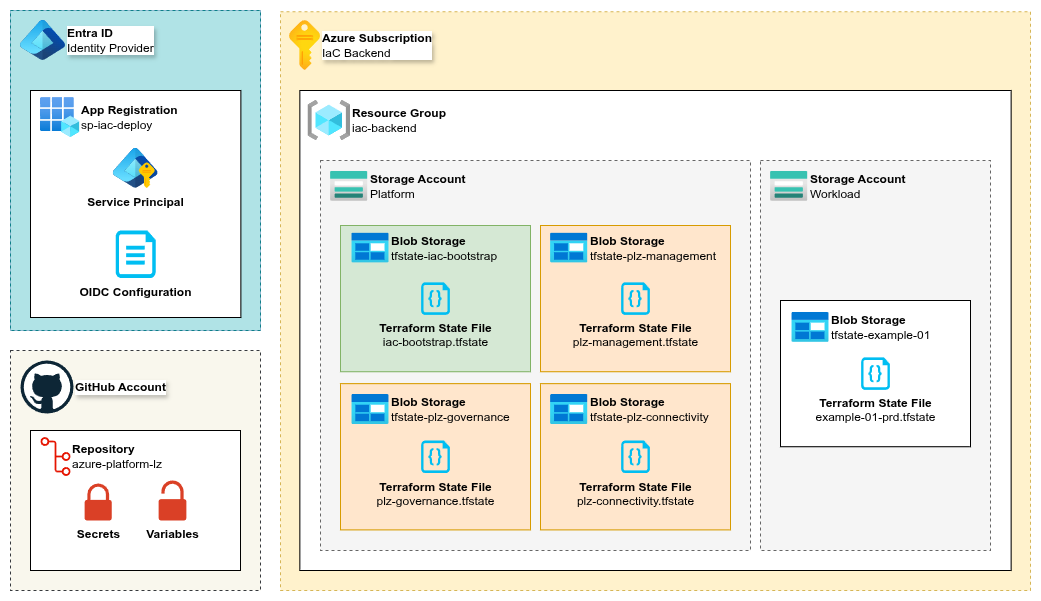
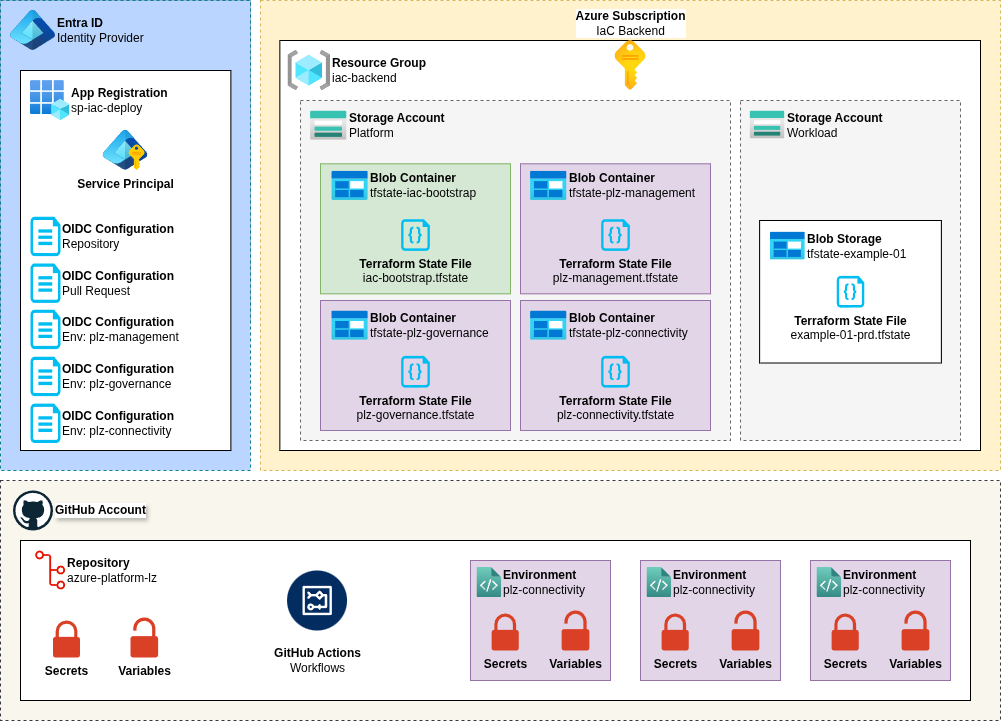
docs: Update documentation and design diagram.

diff --git a/deployments/bootstrap/README.md b/deployments/bootstrap/README.md
@@ -2,17 +2,18 @@
 
 Automates the **initial bootstrapping** process of both Azure and GitHub, in preparation for executing platform landing zone deployment workflows.
 
-- Locally executed Powershell script performs the initial setup process, configuring Azure and GitHub for automation.
+- **Locally executed Powershell script:**
+  - Performs the initial setup process, configuring Azure and GitHub for automation.
   - Performs pre-flight checks, validates authentication and confirms intentions.
-- Executes pre-defined Terraform module to deploy base resources.
-- Creates Entra ID Service Principal:
-  - Secured with Federated Credentials (OIDC) for GitHub repository and environments.
-  - Custom RBAC role assigned at core management group level.
-- Deploys backend resources **per stack** into a dedicated IaC subscription:
-  - Global Resource Group with dedicated Storage Accounts per category (platform, workloads).
+  - Executes pre-defined Terraform module to deploy base resources.
+  - Adds stack variables and secrets into the provided GitHub repository and environments.
+  - Automates the post-deployment migration process of local state file to Azure blob storage providing remote state.
+- **Service Principal + OIDC:**
+  - Providing a secure authentication method for workflows within GitHub repository.
+  - Custom RBAC role assigned providing required permissions for resource management.
+- **Backend Resources --> Dedicated IaC Subscription:**
+  - Resource Group and Storage Accounts per category (platform, workloads).
   - Maintaining isolation and independence, using separate state files per stack (governance, connectivity, management).
-- Adds stack variables and secrets into the provided GitHub repository.
-- Automates the post-deployment migration process of local state file to Azure blob storage providing remote state.
 
 ---
 
@@ -47,21 +48,38 @@ This design is intended to be used with a **dedicated IaC subscription**, contai
 
 ### Example Usage
 
-Subscription IDs are resolved via a data call using the value provided in `platform_subscription_identifiers` variable.
+Subscription IDs are resolved via a data call using the value provided in the `subscription_identifier` field.
 Using the same value will result in the **same subscription ID** being used for both stacks.  
 
 > [!TIP]
 > The value represents either the full name, or a string segment extracted from the subscription display name.
 
-The variable file `iac-bootstrap.tfvars.json` is in JSON format, in order to be read natively by both Terraform and Powershell.
-
-```json
-{
-  "platform_subscription_identifiers": {
-    "mgt": "platform-plz-sub",
-    "gov": "platform-plz-sub",
-    "con": "platform-plz-sub"
-  }
+```hcl
+deployment_stacks = {
+    "bootstrap" = {
+      stack_name              = "iac-bootstrap"       # Name of stack directory and GitHub environment.
+      stack_code              = "iac"                 # Short code for the stack name.
+      subscription_identifier = "platform-iac-sub"    # String value used with lookup matching for subscription display name (full or partial).
+      enable_github_env       = false                 # NOT REQUIRED FOR BOOTSTRAP.
+    },
+    "management" = {
+      stack_name              = "plz-management"
+      stack_code              = "mgt"
+      subscription_identifier = "platform-dev-sub"
+      enable_github_env       = true                  # Create GitHub environment for stack (true/false).
+    },
+    "governance" = {
+      stack_name              = "plz-governance"
+      stack_code              = "gov"
+      subscription_identifier = "platform-dev-sub"
+      enable_github_env       = true
+    },
+    "connectivity" = {
+      stack_name              = "plz-connectivity"
+      stack_code              = "con"
+      subscription_identifier = "platform-dev-sub"
+      enable_github_env       = true
+    }
 }
 ```
 
@@ -84,14 +102,13 @@ The variable file `iac-bootstrap.tfvars.json` is in JSON format, in order to be 
 - **Storage Accounts:**
   - Created per deployment category (`platform` and `workload`) to hold the Blob Containers used by each deployment stack.
 - **Blob Containers:**
-  - Created per deployment stack (`mgt`, `gov`, `con`) to hold the remote Terraform state files.
-  - Additional container created to hold the `bootstrap` state file post-deployment.
+  - Created per deployment stack (`iac`, `mgt`, `gov`, `con`) to hold the remote Terraform state files.
 
 ### 👜 GitHub
 
 - Code repository, version control and automation workflows.
 - Entra ID Service Principal details added as repository secrets.
-- Azure remote backend resources and subscription details added per deployment stack as secrets and variables.
+- Azure remote backend resources and subscription details added per deployment stack as environment variables.
 - Workflows read individual stack variables/secrets and pass securely to Terraform during workflow run-time.
 
 ---
@@ -117,15 +134,18 @@ rg-org-iac-global
     └── tfstate-plz-connectivity
 ```
 
-| Object                  | Created Per  | Example Name             | Purpose                                                      |
-| ----------------------- | ------------ | ------------------------ | ------------------------------------------------------------ |
-| Resource Group          |              | rg-org-iac-global        | Resource group used for all remote state backend resources.  |
-| Storage Account         | **Category** | saorgiacplatform12345    | Holds blob containers per platform deployment stack.         |
-| Storage Account         | **Category** | saorgiacworkload12345    | Holds blob containers per workload deployment.               |
-| Blob Container          | **Stack**    | tfstate-iac-bootstrap    | Contains remote state file, created during initial setup.    |
-| Blob Container          | **Stack**    | tfstate-plz-governance   | Contains remote state file, referenced by stack workflow.    |
-| Blob Container          | **Stack**    | tfstate-plz-management   | Contains remote state file, referenced by stack workflow.    |
-| Blob Container          | **Stack**    | tfstate-plz-connectivity | Contains remote state file, referenced by stack workflow.    |
+| Object                  | Created Per  | Example Name             | Purpose                                                        |
+| ----------------------- | ------------ | ------------------------ | -------------------------------------------------------------- |
+| Resource Group          |              | rg-org-iac-global        | Resource group used for all remote state backend resources.    |
+| Storage Account         | **Category** | saorgiacplatform12345    | Holds blob containers per platform deployment stack.           |
+| Storage Account         | **Category** | saorgiacworkload12345    | Holds blob containers per workload deployment.                 |
+| Blob Container          | **Stack**    | tfstate-iac-bootstrap    | Contains remote state file, created during initial setup.      |
+| Blob Container          | **Stack**    | tfstate-plz-management   | Contains remote state file, referenced by stack workflow.      |
+| Blob Container          | **Stack**    | tfstate-plz-governance   | Contains remote state file, referenced by stack workflow.      |
+| Blob Container          | **Stack**    | tfstate-plz-connectivity | Contains remote state file, referenced by stack workflow.      |
+| GitHub Environment      | **Stack**    | plz-management           | GitHub repository environment, used to contain stack variables.|
+| GitHub Environment      | **Stack**    | plz-governance           | GitHub repository environment, used to contain stack variables.|
+| GitHub Environment      | **Stack**    | plz-connectivity         | GitHub repository environment, used to contain stack variables.|
 
 ---
 

diff --git a/README.md b/README.md
@@ -35,7 +35,7 @@ Automates the **initial bootstrapping** process, preparing both Azure and GitHub
   - Performs the initial setup process, configuring Azure and GitHub for automation.
   - Performs pre-flight checks, validates authentication and confirms intentions.
   - Executes pre-defined Terraform module to deploy base resources.
-  - Adds stack variables and secrets into the provided GitHub repository.
+  - Adds stack variables and secrets into the provided GitHub repository and environments.
   - Automates the post-deployment migration process of local state file to Azure blob storage providing remote state.
 - **Service Principal + OIDC:**
   - Providing a secure authentication method for workflows within GitHub repository.
